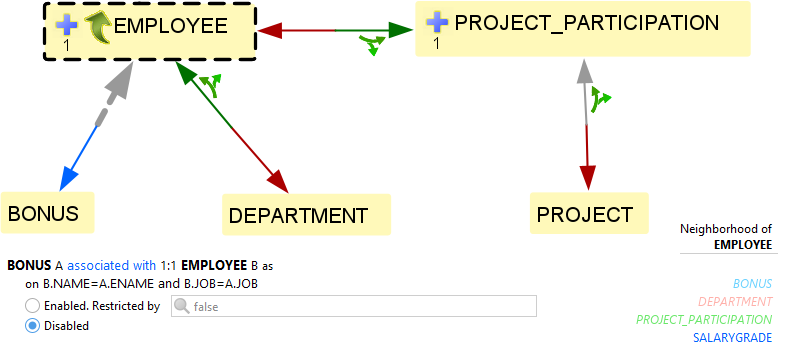
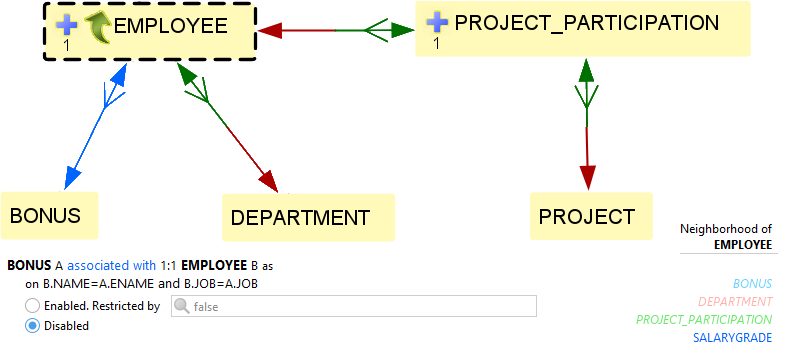
crows foot rendering, release notes, fk-to-null hint

diff --git a/src/main/gui/net/sf/jailer/ui/graphical_view/AssociationRenderer.java b/src/main/gui/net/sf/jailer/ui/graphical_view/AssociationRenderer.java
@@ -20,9 +20,12 @@ import java.awt.Color;
 import java.awt.Graphics2D;
 import java.awt.Image;
 import java.awt.Polygon;
+import java.awt.RenderingHints;
 import java.awt.Shape;
 import java.awt.Stroke;
 import java.awt.geom.AffineTransform;
+import java.awt.geom.Ellipse2D;
+import java.awt.geom.Line2D;
 import java.awt.geom.Path2D;
 import java.awt.geom.Point2D;
 import java.awt.geom.QuadCurve2D;
@@ -39,6 +42,7 @@ import net.sf.jailer.ui.Colors;
 import net.sf.jailer.ui.UIUtil;
 import prefuse.Constants;
 import prefuse.render.EdgeRenderer;
+import prefuse.util.ColorLib;
 import prefuse.util.GraphicsLib;
 import prefuse.visual.EdgeItem;
 import prefuse.visual.VisualItem;
@@ -288,10 +292,11 @@ public class AssociationRenderer extends EdgeRenderer {
 				double nx = -tangent.getY(), ny = tangent.getX();
 				// no middle toe: the association line is the third stroke of the notation, and on
 				// a curved edge a straight middle toe is the prong that diverges most visibly
+				// one continuous path: the apex is stroked once, as a round join, instead of twice
+				// as two round caps which reach half a stroke width beyond it
 				crowsFoot = new Path2D.Double();
-				crowsFoot.moveTo(apex.getX(), apex.getY());
-				crowsFoot.lineTo(toe.getX() + nx * spread, toe.getY() + ny * spread);
-				crowsFoot.moveTo(apex.getX(), apex.getY());
+				crowsFoot.moveTo(toe.getX() + nx * spread, toe.getY() + ny * spread);
+				crowsFoot.lineTo(apex.getX(), apex.getY());
 				crowsFoot.lineTo(toe.getX() - nx * spread, toe.getY() - ny * spread);
 				crowsFootBounds = crowsFoot.getBounds2D();
 				double pad = Math.max(1, m_curWidth);
@@ -398,6 +403,35 @@ public class AssociationRenderer extends EdgeRenderer {
 	}
 
 	/**
+	 * Draws the edge itself.
+	 * <p>
+	 * {@link GraphicsLib#paint} hands a {@link Line2D} to
+	 * {@link Graphics2D#drawLine(int, int, int, int)} with both end points rounded to whole
+	 * units as soon as the display is zoomed out to a scale of 1.5 or less, an optimization for
+	 * the Windows JRE of 2008 which buys nothing here because the display draws antialiased
+	 * anyway. The markers of the edge - arrow head, crow's foot, the circle of a nulled foreign
+	 * key - sit at the exact geometry, so the line moved away from them by up to half a unit at
+	 * each end. The arc of a reflexive association is a {@link QuadCurve2D} and was never
+	 * affected.
+	 */
+	@Override
+	protected void drawShape(Graphics2D g, VisualItem item, Shape shape) {
+		if (!(shape instanceof Line2D) || getRenderType(item) != RENDER_TYPE_DRAW) {
+			super.drawShape(g, item, shape);
+			return;
+		}
+		Color strokeColor = ColorLib.getColor(item.getStrokeColor());
+		if (strokeColor.getAlpha() == 0) {
+			return;
+		}
+		Stroke oldStroke = g.getStroke();
+		g.setStroke(getStroke(item));
+		g.setPaint(strokeColor);
+		g.draw(shape);
+		g.setStroke(oldStroke);
+	}
+
+	/**
 	 * Renders an {@link Association}.
 	 *
 	 * @param g the 2D graphics
@@ -471,6 +505,13 @@ public class AssociationRenderer extends EdgeRenderer {
 		crowsFoot = null;
 		pendingPosition = null;
 		midPosition = null;
+		// The edge and its markers are separate draw calls. Under the default STROKE_NORMALIZE
+		// Java2D snaps each of them to the pixel grid on its own, in device space and therefore
+		// after the display's pan and zoom, so the crow's foot could land up to a pixel beside
+		// the very line it is placed on. Measured: worst case 1.0 px at zoom 1.33, 0.5 .. 0.8 px
+		// at other zoom levels, against 0.1 px with exact geometry.
+		Object oldStrokeControl = g.getRenderingHint(RenderingHints.KEY_STROKE_CONTROL);
+		g.setRenderingHint(RenderingHints.KEY_STROKE_CONTROL, RenderingHints.VALUE_STROKE_PURE);
 		render(g, item);
 		if (crowsFoot != null) {
 			// solid, no matter whether the edge is dashed (restricted) or animated (selected)
@@ -503,9 +544,13 @@ public class AssociationRenderer extends EdgeRenderer {
 				int r = 5;
 				g.setStroke(new BasicStroke(1.5f));
 				g.setColor(new Color(color));
-				g.drawOval((int) midPosition.getX() - r, (int) midPosition.getY() - r, 2 * r, 2 * r);
+				g.draw(new Ellipse2D.Double(midPosition.getX() - r, midPosition.getY() - r, 2 * r, 2 * r));
 			}
 		}
+		// getRenderingHint answers null when the hint was never set, and setRenderingHint rejects
+		// null, so fall back to the documented default
+		g.setRenderingHint(RenderingHints.KEY_STROKE_CONTROL,
+				oldStrokeControl != null? oldStrokeControl : RenderingHints.VALUE_STROKE_NORMALIZE);
 	}
 
 	/**

diff --git a/src/main/gui/net/sf/jailer/ui/ExtractionModelEditor.java b/src/main/gui/net/sf/jailer/ui/ExtractionModelEditor.java
@@ -2804,7 +2804,7 @@ public class ExtractionModelEditor extends javax.swing.JPanel implements PlafAwa
 			}
 			if (isPk) {
 				restrictionEditor.fk20DisabledHintLabel.setText("(Foreign key is also primary key)");
-			} else {
+			} else if (isFiltered) {
 				restrictionEditor.fk20DisabledHintLabel.setText("(Foreign key has filter)");
 			}
 			restrictionEditor.fkToNullCheckBox.setToolTipText("<html><i>in export-script (SQL)</i>: set all foreign keys to null to which the row with the corresponding primary key is not exported <br><hr>\n<i>in delete-script</i>: set all foreign keys in the rows that cannot be deleted to null when the row with the corresponding primary key is deleted "
